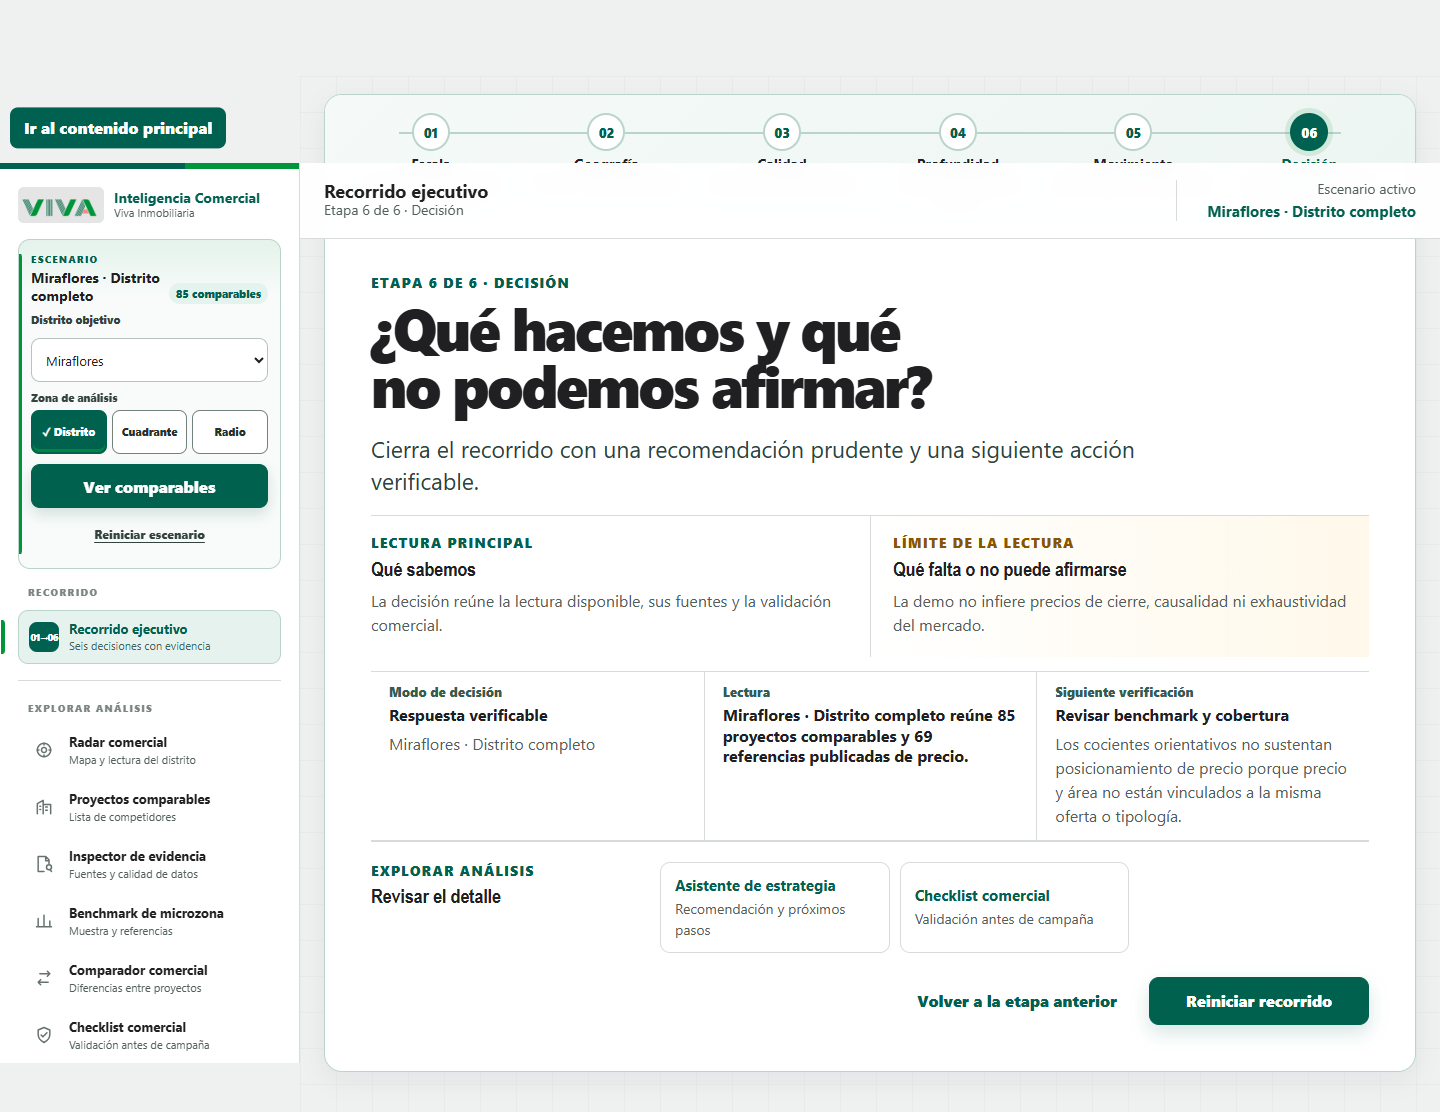
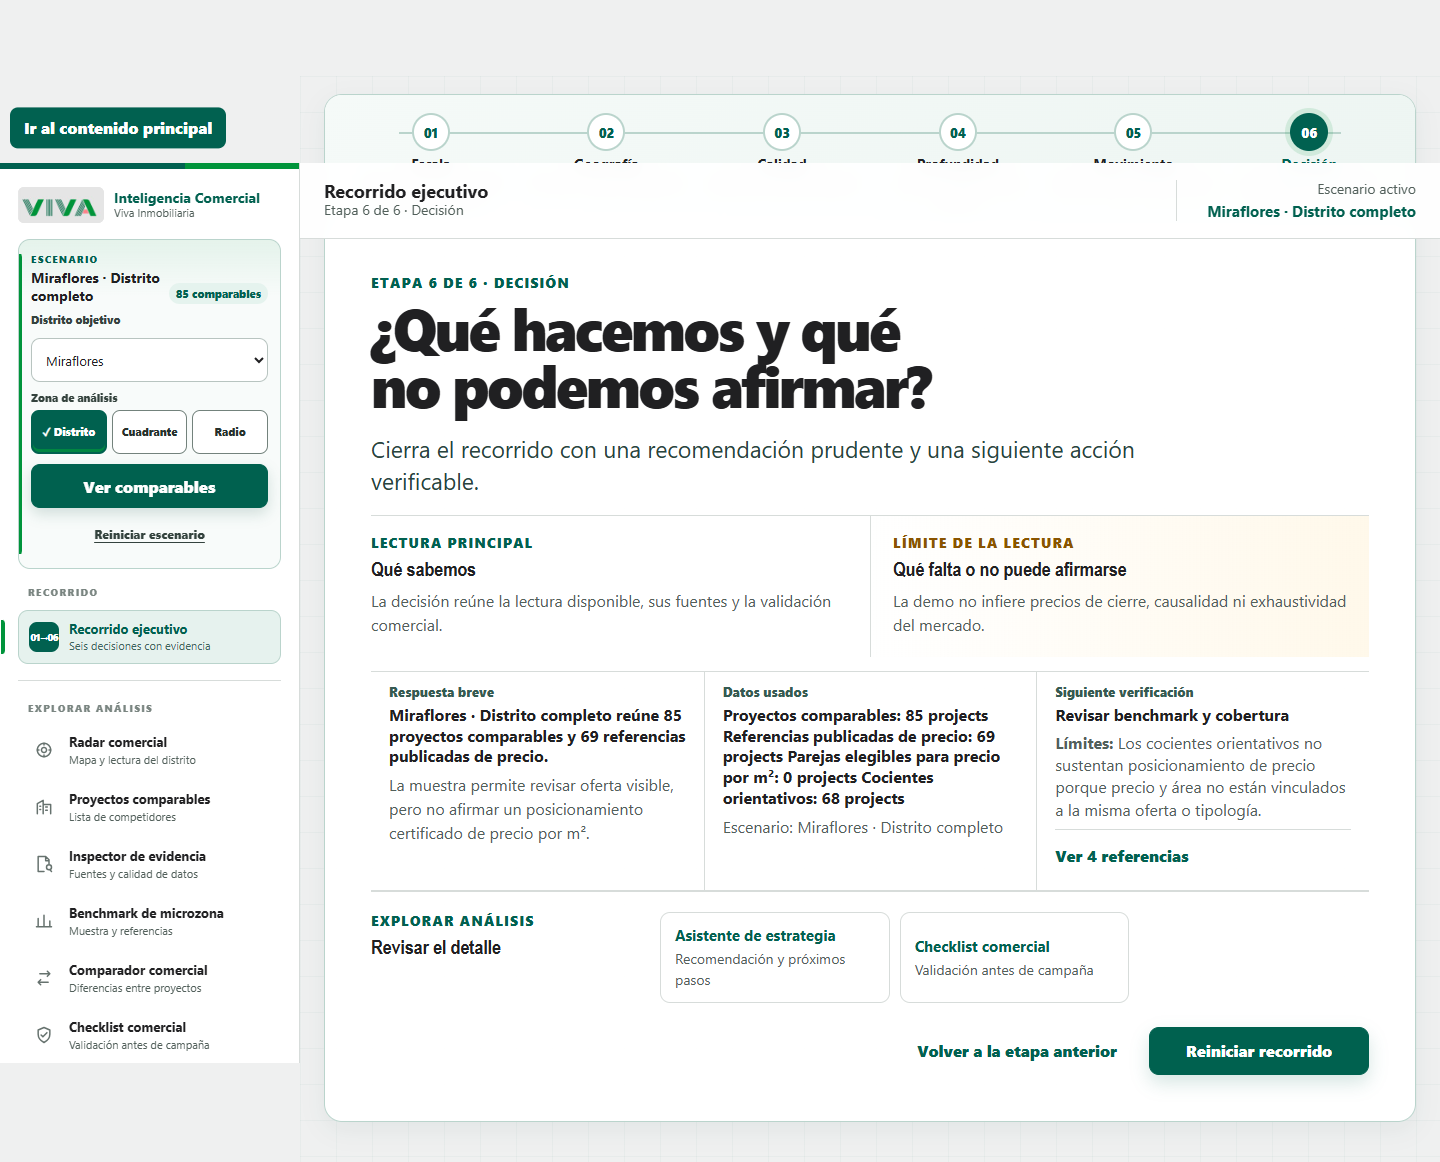
fix(journey): preserve missing values and full decision evidence

diff --git a/prototipo_ejecutable/public/js/views/journey.js b/prototipo_ejecutable/public/js/views/journey.js
@@ -59,13 +59,22 @@ function escapeHtml(value) {
 }
 
 function formatNumber(value) {
-  const number = Number(value);
-  return Number.isFinite(number)
+  const number = finiteNumber(value);
+  return number !== null
     ? new Intl.NumberFormat("es-PE", { maximumFractionDigits: 0 }).format(number)
     : "No disponible";
 }
 
 function finiteNumber(value) {
+  if (
+    value === null ||
+    value === undefined ||
+    value === "" ||
+    typeof value === "boolean" ||
+    (typeof value === "string" && value.trim() === "")
+  ) {
+    return null;
+  }
   const number = Number(value);
   return Number.isFinite(number) ? number : null;
 }
@@ -265,28 +274,68 @@ function responseBlockText(response, type) {
     .join(" ");
 }
 
+function renderDecisionDisclosure(response) {
+  const references =
+    response?.blocks
+      ?.find((candidate) => candidate.type === "references")
+      ?.items?.map(responseItemText)
+      .filter(Boolean) ?? [];
+  if (!references.length) return "";
+  const referenceLabel = references.length === 1
+    ? "1 referencia"
+    : `${formatNumber(references.length)} referencias`;
+  return `
+    <details class="journey-decision-disclosure">
+      <summary>Ver ${escapeHtml(referenceLabel)}</summary>
+      <div>
+        <div data-journey-response-block="references">
+          <strong>Referencias:</strong>
+          <ul>${references.map((label) => `<li>${escapeHtml(label)}</li>`).join("")}</ul>
+        </div>
+      </div>
+    </details>
+  `;
+}
+
+function renderDecisionResponseFacts(response) {
+  const answer = responseBlockText(response, "answer") || "Sin lectura elegible";
+  const data = responseBlockText(response, "data") || "Sin datos elegibles";
+  const interpretation =
+    responseBlockText(response, "interpretation") ||
+    "La interpretación no está disponible.";
+  const nextStep =
+    responseBlockText(response, "next_step") || "Revisar el checklist comercial";
+  const limitations =
+    responseBlockText(response, "limitations") || "Sin límites adicionales registrados.";
+  const scope = response.scenario?.scopeText ?? "Escenario activo";
+  return [
+    renderFact(
+      "decision-answer",
+      "Respuesta breve",
+      answer,
+      interpretation,
+    ),
+    renderFact(
+      "decision-data",
+      "Datos usados",
+      data,
+      `Escenario: ${scope}`,
+    ),
+    `
+      <div class="journey-fact" data-journey-fact="decision-next-step">
+        <dt>Siguiente verificación</dt>
+        <dd>${escapeHtml(nextStep)}</dd>
+        <p data-journey-response-block="limitations"><strong>Límites:</strong> ${escapeHtml(limitations)}</p>
+        ${renderDecisionDisclosure(response)}
+      </div>
+    `,
+  ];
+}
+
 function renderDecisionFacts(data) {
   const response = data?.response ?? null;
   if (response) {
-    return [
-      renderFact(
-        "decision-mode",
-        "Modo de decisión",
-        "Respuesta verificable",
-        response.scenario?.scopeText ?? "Escenario activo",
-      ),
-      renderFact(
-        "decision-answer",
-        "Lectura",
-        responseBlockText(response, "answer") || "Sin lectura elegible",
-      ),
-      renderFact(
-        "decision-next-step",
-        "Siguiente verificación",
-        responseBlockText(response, "next_step") || "Revisar el checklist comercial",
-        responseBlockText(response, "limitations"),
-      ),
-    ];
+    return renderDecisionResponseFacts(response);
   }
   const checklist = data?.checklist ?? {};
   return [

diff --git a/prototipo_ejecutable/public/styles/61-journey.css b/prototipo_ejecutable/public/styles/61-journey.css
@@ -330,6 +330,48 @@
   border-left: 0;
 }
 
+.journey-decision-disclosure {
+  margin-top: 8px;
+  border-top: 1px solid var(--line);
+  padding-top: 4px;
+}
+
+.journey-decision-disclosure summary {
+  min-height: 44px;
+  display: flex;
+  align-items: center;
+  color: var(--teal);
+  font-size: 16px;
+  font-weight: 800;
+  line-height: 1.3;
+  cursor: pointer;
+}
+
+.journey-decision-disclosure > div {
+  display: grid;
+  gap: 10px;
+  padding: 2px 0 8px;
+}
+
+.journey-decision-disclosure p,
+.journey-decision-disclosure ul {
+  margin: 0;
+}
+
+.journey-decision-disclosure ul {
+  display: grid;
+  gap: 5px;
+  padding-left: 20px;
+  color: var(--muted);
+  font-size: 16px;
+  line-height: 1.4;
+}
+
+.journey-fact p[data-journey-response-block="limitations"] {
+  font-size: 16px;
+  line-height: 1.4;
+}
+
 .journey-state h2 {
   margin: 0;
   font-size: 20px;
